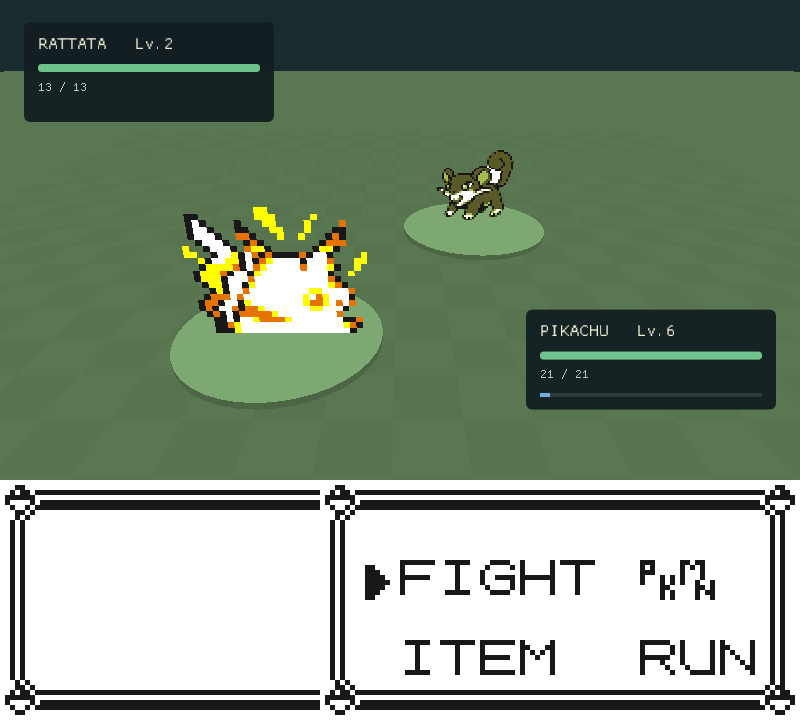
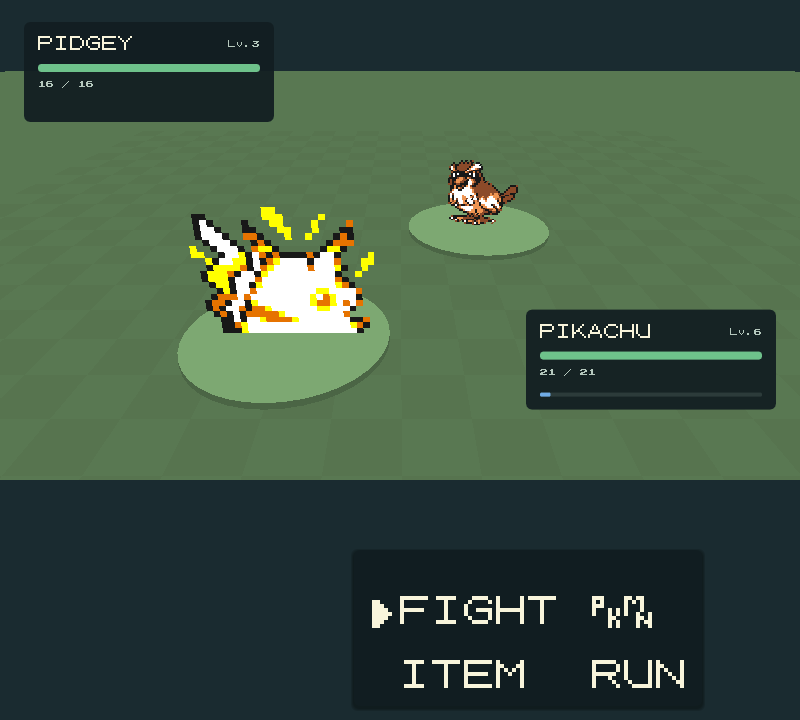
Document validated B2 HUD and integrated screenshots

diff --git a/README.md b/README.md
@@ -30,13 +30,14 @@ A 3D presentation layer for statically recompiled Pokémon Yellow, with an overh
 - **Two perspectives.** Switch between an adjustable overhead camera and first person. Original tile-based movement and four-way interaction are preserved.
 - **Interiors on demand.** Enter houses, shops, Pokémon Centers, laboratories, and caves. The renderer generates all 179 reachable interiors as needed.
 - **Battles in 3D.** Normal battles combine original Pokémon portraits with animated health displays, trainer introductions, four effect categories, and Poké Ball throws and shakes. Complex moves preserve the original animation; menus and text remain faithful to the game.
+- **An integrated HUD with the ROM font.** Recognized menus, battle controls and compatible labels share dark panels and original glyphs. The game still supplies all menu text and selections. Integrated is the default in source builds; Esc can persistently restore the classic presentation. Special graphics and unsupported regions retain their original LCD pixels.
 - **Original interfaces over a 3D world.** Dialogues and recognized windows retain the scene behind them; full-screen menus frame the original LCD over a dimmed, blurred background. `F2` crossfades into original 2D presentation. Fly, Teleport and Dig follow the engine's white fade and relocate the camera at the destination; bike and surf remain continuous.
 - **Pokédex and storage.** Browse the original list and data on a 3D device, see encounter areas over Kanto, use Bill’s twelve boxes, and visit the item PC, Oak’s evaluation and Hall of Fame gallery with original portraits and menus.
 - **Bounded rendering work.** Exploration meshes are cached for the current map and its immediate neighbors, with at most five resident maps.
 
 ## Screenshots
 
-Real captures from the renderer and its QA runs, stored at their original 800 × 720 resolution. Click any image to inspect it. Celadon City and Viridian Forest use the map-catalog preview camera.
+Real captures from the renderer and its QA runs, stored at their original 800 × 720 resolution. Click any image to inspect it. Pallet Town, first person, battle and the interface captures below show the integrated style. The other landmark views retain their classic-style captures; Celadon City and Viridian Forest use the map-catalog preview camera.
 
 | First-person exploration | Viridian City |
 | --- | --- |
@@ -44,7 +45,13 @@ Real captures from the renderer and its QA runs, stored at their original 800 ×
 | **Celadon City** | **Viridian Forest** |
 | [![Catalog overview of Celadon City's buildings, streets, and department store](docs/screenshots/celadon-city.png)](docs/screenshots/celadon-city.png) | [![Catalog overview of Viridian Forest's paths and dense rows of trees](docs/screenshots/viridian-forest.png)](docs/screenshots/viridian-forest.png) |
 | **Professor Oak's laboratory** | **Battle presentation** |
-| [![Professor Oak's laboratory with its desks, equipment, and original characters](docs/screenshots/oaks-lab.png)](docs/screenshots/oaks-lab.png) | [![Pikachu facing a wild Rattata in the 3D arena above the original battle menu](docs/screenshots/battle.png)](docs/screenshots/battle.png) |
+| [![Professor Oak's laboratory with its desks, equipment, and original characters](docs/screenshots/oaks-lab.png)](docs/screenshots/oaks-lab.png) | [![Pikachu facing a wild Pidgey with ROM-font status panels and integrated battle controls](docs/screenshots/battle.png)](docs/screenshots/battle.png) |
+
+| Integrated Start menu | PC storage |
+| --- | --- |
+| [![Original Start selections drawn with ROM glyphs on a dark panel over Kanto](docs/screenshots/integrated-start.png)](docs/screenshots/integrated-start.png) | [![PC storage with themed ROM-font shelf labels and the original full-screen menu](docs/screenshots/integrated-pc.png)](docs/screenshots/integrated-pc.png) |
+| **Pokédex** | **Hall of Fame** |
+| [![Pokédex with shared-font counters and options, retaining the original list and portrait](docs/screenshots/integrated-pokedex.png)](docs/screenshots/integrated-pokedex.png) | [![Saved champion team on the Hall of Fame pedestals, with original labels and native information windows](docs/screenshots/integrated-hall.png)](docs/screenshots/integrated-hall.png) |
 
 ## Get started
 
@@ -55,12 +62,14 @@ Download [v0.2.0 for Linux or Windows x86_64](https://github.com/dobbygl/pokeyel
 - **Linux:** built on Ubuntu 24.04; uses system SDL2, libcurl and OpenGL/GLES libraries listed in `DEPENDENCIES.txt`. Open a terminal in the package directory and run `./pokeyellow3d`.
 - **Windows 10/11 x64:** includes SDL2, CURL, ANGLE and MSVC runtime DLLs. Double-click `Start.cmd`, which selects the package directory before launching. Keep the DLLs beside the executable; no compiler or vcpkg installation is required.
 
+The integrated style shown above is currently available in source builds; the v0.2.0 packages retain the classic interface.
+
 Each ZIP has a companion `.sha256` checksum. The launcher is included in `pokeyellow3d`; it starts the game once the matching user-supplied ROM is available.
 
 ### Requirements
 
 ROM-backed journeys and capture comparisons run on Linux with Mesa. Native
-Windows/MSVC builds and all thirteen ROM-independent tests, including the
+Windows/MSVC builds and all eighteen ROM-independent tests, including the
 Windows/ANGLE renderer, pass in CI. macOS has not been validated.
 
 - Git and CMake **3.18 or newer**.
@@ -163,6 +172,8 @@ First person follows the original movement grid; it does not provide free moveme
 
 In `Esc` settings, **Hora del mundo** selects disabled lighting, your local clock, or a fixed time. Daylight changes the sun direction, sky, fog and window light in both cameras. It starts disabled and stores its preference separately from cartridge saves; encounters and game time remain under the original engine's control. The title keeps its fixed sunset.
 
+In `Esc`, **Estilo de menus** selects **Integrado** or **Clasico**. The choice is saved with the lighting preferences, separately from cartridge saves. Integrated retains the ROM typeface; Esc settings use the application font.
+
 ## Development status
 
 | Area | Current scope |
@@ -173,6 +184,7 @@ In `Esc` settings, **Hora del mundo** selects disabled lighting, your local cloc
 | Interiors | All 179 reachable interiors load; representative house, lab, healing, shopping, stair, elevator, and cave journeys are covered. |
 | Battles | B1/B2 validated: arenas, portraits, HUDs, party changes, trainer battles, captures, four effect categories, and original-animation fallback. All 165 move records are audited; playable tests exercise representative moves. |
 | Menus and transitions | A1/A2/A3, B1/B2 and C1/C2/C3 validated: shared LCD composition, retained 3D menu backgrounds, palette-driven map fades, battle/save-state transitions, original boot into the 3D title, and Fly/Teleport/Dig travel. |
+| Integrated menus and HUD | Original ROM glyphs for recognized world and battle windows, names and compatible labels; shared theme and persistent classic fallback. See `PLAN_ESTILO_MENUS.md` for phase acceptance evidence. |
 | Pokédex and PC | 3D list/data device, ROM-verified portraits, AREA overview and Bill’s twelve-box storage are implemented. The item PC and Oak show live counters; the Hall of Fame reads saved teams from cartridge RAM into a pedestal gallery. |
 
 The renderer interprets building heights and furniture visually. Unclassified interior artwork retains its original flat texture, and neighboring-map NPCs are not simulated. The engine may freeze an offscreen NPC; the renderer preserves that live state instead of inventing movement. Water and flowers follow the original tileset animation. Link, tutorial, Safari, and unrecognized battle states retain the original 2D presentation. A complete story playthrough has not been validated.
@@ -196,7 +208,7 @@ The 3D layer reads the game state to draw the scene; it does not run a second ga
 
 ### Tests
 
-CMake registers thirteen ROM-independent checks, including title lifetimes, first-person controls, menus, presentation blending, tile animation, daylight/settings and synthetic rendering/data tests. With the ROM in `build/roms/pokeyellow.gbc` **at configure time**, seventeen additional tests cover game data and presentation, for 30 in total. Original-engine portrait, nest and SRAM comparisons require private QA evidence and explicitly skip when it is absent. Reconfigure after adding the ROM. Use `ctest --test-dir build -LE rom --output-on-failure` to run the ROM-independent set.
+CMake registers eighteen ROM-independent checks, including original-font decoding, HUD encoding, menu layouts, title lifetimes, first-person controls, presentation blending, tile animation, daylight/settings and synthetic rendering/data tests. With the ROM in `build/roms/pokeyellow.gbc` **at configure time**, nineteen additional tests cover game data and presentation, for 37 in total. Original-engine portrait, nest and SRAM comparisons require private QA evidence and explicitly skip when it is absent. Reconfigure after adding the ROM. Use `ctest --test-dir build -LE rom --output-on-failure` to run the ROM-independent set.
 
 ```sh
 cmake -S . -B build -DPOKEYELLOW_3D=ON
@@ -276,7 +288,7 @@ Built on [GB-Recomp/pokeyellow](https://github.com/GB-Recomp/pokeyellow) and the
 
 ## Contributing
 
-[`.github/workflows/ci.yml`](.github/workflows/ci.yml) builds Linux (GCC and Clang) on every push to `main` and every pull request, plus a Linux build with the 3D layer disabled. The enabled Windows (MSVC) job uses pinned SDL2/CURL/ANGLE dependencies and requires all thirteen ROM-independent tests to pass, including the synthetic renderer on a real Windows graphics context. Native validation is recorded in `PLAN_API_CI.md`. The macOS job remains disabled pending a compatible GLES2 backend. Match that locally before opening a pull request:
+[`.github/workflows/ci.yml`](.github/workflows/ci.yml) builds Linux (GCC and Clang) on every push to `main` and every pull request, plus a Linux build with the 3D layer disabled. The enabled Windows (MSVC) job uses pinned SDL2/CURL/ANGLE dependencies and requires all eighteen ROM-independent tests to pass, including the synthetic renderer on a real Windows graphics context. Native validation is recorded in `PLAN_API_CI.md`. The macOS job remains disabled pending a compatible GLES2 backend. Match that locally before opening a pull request:
 
 ```sh
 cmake -S . -B build -DPOKEYELLOW_3D=ON -DCMAKE_BUILD_TYPE=MinSizeRel

diff --git a/PLAN_ESTILO_MENUS.md b/PLAN_ESTILO_MENUS.md
@@ -1,6 +1,6 @@
 # Plan: estilo integrado de menús y HUD
 
-Fecha: 2026-09-21. Estado: A1, A2 y B1 validadas; B2 y C1 pendientes.
+Fecha: 2026-09-21. Estado: A1, A2, B1 y B2 validadas; C1 pendiente.
 
 ## Análisis del estado actual
 
@@ -183,9 +183,9 @@ Trabajo:
 
 Criterios de aceptación:
 
-- [ ] Ninguna escena de juego dibuja texto con la fuente ImGui por defecto; solo el menú Esc la conserva.
-- [ ] Un contacto revisado con las cuatro escenas en ambas cámaras muestra un único conjunto de colores, radios y tamaños de glifo.
-- [ ] Las baterías de combate, PC, Pokédex y título pasan sin cambios en el estado del motor.
+- [x] Ninguna escena de juego dibuja texto con la fuente ImGui por defecto; solo el menú Esc la conserva.
+- [x] Un contacto revisado con las cuatro escenas en ambas cámaras muestra un único conjunto de colores, radios y tamaños de glifo.
+- [x] Las baterías de combate, PC, Pokédex y título pasan sin cambios en el estado del motor.
 
 ## Bloque C: transiciones de menú
 
@@ -687,10 +687,89 @@ haber jugado 47 encuentros distintos. El código anterior falla con salida
 62 por la R final de BUG CATCHER; la corrección pasa ambas cámaras, conserva
 los símbolos de género y rechaza un glifo extra-fuente en el duodécimo lugar.
 Contacto y comandos en `build/qa/logs/menu-style-b2-trainer-label*` y
-`build/qa/menu-style-b2/trainer-labels/commands.json`.
+`build/qa/menu-style-b2/trainer-labels-final/commands.json`.
 
 La cohorte anterior se detuvo al descubrir el caso y quedó archivada bajo
 `build/qa/logs/menu-style-b2-before-trainer-label-fix/`. Se repiten las veinte
 baterías clásicas y los dieciocho recorridos integrados sobre el candidato
 corregido antes de acreditar B2. El README incorpora siete capturas del
 estilo integrado; cada PNG conserva los píxeles de su fuente a 800×720.
+
+
+Sobre el candidato corregido `9724968`, CTest pasa 37/37, el build
+independiente sin ROM 18/18 y clang-format 18.1.8. La CI `35653831016`
+aprueba Linux/GCC, Linux/Clang, Linux 2D y Windows/MSVC. Los 18 recorridos
+integrados de `build/qa/ui-style-iPghbQ` pasan con 25.613 frames,
+659.726 glifos y 42.222.464 bits comprobados; el cursor se verifica en
+7.648 frames. Su contacto de ocho vistas de combate está revisado en
+`menu-style-b2-battle-review.{png,json}`.
+
+La auditoría conjunta del HUD y los recorridos integrados reúne 265.619
+frames de juego sin glifos ImGui, 4.517.314 glifos del atlas y 48 frames
+con nombres de entrenador de más de diez caracteres. Incluye las pruebas
+previas de PC/Pokédex/título, cuyos componentes no cambiaron con la
+corrección de nombres. Los controles negativos de fuente ImGui y sufijo
+omitido fallan con código 62. Evidencia detallada:
+`build/qa/logs/menu-style-b2-font-evidence.json`,
+`menu-style-b2-integrated-evidence.json` y `menu-style-b2-trainer-labels.log`.
+La cadena adicional de combate pasa en `build/qa/battles-l2oCj8`.
+Las veinte baterías clásicas siguen en ejecución; los criterios B2 aún
+no se marcan ni la PR #20 se fusiona.
+
+
+Comandos de esta cohorte B2 (fixtures y registros privados):
+
+```sh
+bash build/qa/logs/run-menu-style-b2-regressions.sh
+env -u LIBGL_ALWAYS_SOFTWARE QA_CAPTURE_STATES=1 tests/ui_style_qa.sh \
+  build/roms/pokeyellow.gbc \
+  build/qa/battles-eovzS8/logs/capture-complete.state \
+  build/qa/firstperson-9cB3FJ/route.state \
+  build/qa/battles-LojUdN/logs/route22-trainer.state \
+  build/qa/ui-crossfade-5bOG41/world.state \
+  build/qa/ui-crossfade-5bOG41/battle.state
+env -u LIBGL_ALWAYS_SOFTWARE QA_MENU_STYLE=integrated QA_GLYPH_ORACLE=1 \
+  QA_CAPTURE_STATES=1 tests/battles_qa.sh build/roms/pokeyellow.gbc \
+  build/qa/interiors-fJDbZk/logs/town-route1.state \
+  build/qa/firstperson-9cB3FJ/route.state
+python3 build/qa/logs/prepare-menu-style-b2-integrated-evidence.py
+python3 build/qa/logs/collect-menu-style-b2-font-evidence.py
+# Tras terminar las veinte baterías y revisar el contacto generado:
+python3 build/qa/logs/collect-menu-style-b2-evidence.py
+```
+
+Los comandos de las 47 etiquetas, con su directorio de ejecución aislado,
+están en `build/qa/menu-style-b2/trainer-labels-final/commands.json`.
+El colector final verifica el commit, los SHA-256 de código y binarios,
+la copia del helper de cada batería, las veinte salidas satisfactorias y
+los hashes de las imágenes revisadas antes de emitir el informe de cierre.
+
+
+### Cierre de B2
+
+El candidato `9724968` completa las veinte baterías clásicas con **2.159
+capturas y 1.831 estados idénticos a v0.2.0**; las 38 capturas exteriores
+archivadas coinciden también byte a byte. Las diez vistas de ajustes Esc
+se registran aparte y sus estados del motor siguen comparándose. No hay
+pruebas omitidas: CTest 37/37, sin ROM 18/18 y formato 18.1.8 aprobados.
+La CI del código `35653831016` está en verde en las cinco comprobaciones
+obligatorias; macOS sigue deshabilitado como en las fases anteriores.
+
+Los 18 recorridos integrados y la cadena adicional de combate pasan sobre
+el candidato corregido. La auditoría del HUD registra cero frames con
+fuente ImGui durante el juego. Las 47 etiquetas originales de entrenador
+se comprueban en ambas cámaras, incluidos nombres de doce glifos y respaldo
+LCD ante un símbolo fuera de la fuente. Los dos controles negativos
+reproducen el fallo esperado y los contactos están revisados.
+
+El informe de cierre es `build/qa/logs/menu-style-b2-evidence.json`, con
+commit, comandos, resultados, contactos, hashes de código y binarios.
+Los contactos `menu-style-b2-{eight-scenes,area-data-title,hall,battle,
+trainer-label}-review.{png,json}` y la revisión del README permanecen en
+`build/qa/logs/`. Siete PNG del README conservan exactamente los píxeles
+de sus capturas a 800×720. El runtime permanece limpio en `00cc26d`.
+
+Los tres criterios de B2 quedan acreditados: **16 de 19**. El commit de
+cierre incorpora solo documentación e imágenes; no cambia el código ni
+los binarios validados. C1 y la release v0.3.0 siguen pendientes. La fase
+C1 comenzará después de fusionar la PR #20 con su CI final aprobada.

diff --git a/PALLET3D.md b/PALLET3D.md
@@ -922,7 +922,9 @@ revisados en `build/qa/logs/menu-style-b1-*`.
 
 B2 extiende la fuente original al HUD del mundo y a nombres, niveles, HP y
 estado del combate. Los nombres conservan directamente los índices del
-juego, incluidos acentos y símbolos. Los paneles comparten tinta
+juego, incluidos acentos y símbolos. El rótulo del entrenador admite los
+12 glifos originales de su campo; los nombres de Pokémon conservan su
+límite de 10. Los paneles comparten tinta
 RGB 248/244/219, fondo 17/29/33, relleno 14 y radio 6. A 800x720, el título
 del mapa usa glifos de 24 píxeles, los nombres de combate 16 y los detalles
 8; los controles ajustan sus líneas al ancho disponible. Las etiquetas
@@ -941,3 +943,13 @@ la ventana original AREA UNKNOWN puede cubrir etiquetas: esa parte se
 compara con el último LCD completo observado; el resto de cada glifo sigue
 comprobándose. La validación completa de B2 se registra en
 `PLAN_ESTILO_MENUS.md` antes de acreditar sus tres criterios.
+
+
+B2 está validada: CTest 37/37, sin ROM 18/18, veinte baterías clásicas con
+2.159 capturas y 1.831 estados idénticos a v0.2.0 y las 38 vistas exteriores
+sin diferencias. Los 18 recorridos integrados comprueban 659.726 glifos en
+25.613 frames. La auditoría del HUD no detecta fuente ImGui durante el
+juego; los 47 nombres de clase de entrenador pasan en ambas cámaras.
+Los cinco contactos revisados y el informe completo se conservan en
+`build/qa/logs/menu-style-b2-*`. Las animaciones de apertura y cierre de
+paneles de C1 aún están pendientes.
